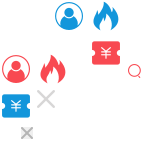
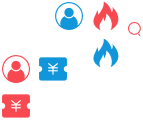
fix img path bug

diff --git a/dist/css/index.css b/dist/css/index.css
@@ -1,1 +1,1 @@
-@charset "UTF-8";.app-header-wrap{min-width:1100px;height:60px;background:#fff;border-bottom:1px solid #e8e8e8;-webkit-box-shadow:0 2px 20px #e8e8e8;box-shadow:0 2px 20px #e8e8e8}.app-header{width:1100px;margin:0 auto}.header-logo,.header-nav{margin-top:10px}.header-logo{display:block;width:100px;height:40px;line-height:40px;background-color:#ffebeb;text-align:center;margin-right:20px}.header-logo img{height:80%}.header-nav li{float:left;line-height:40px;margin:0 20px;font-size:16px}.header-login a,.header-login span,.header-unlogin a{float:left;font-size:14px;line-height:30px}.header-nav li a{display:block}.header-nav li.active a,.header-nav li:hover a{color:red}.header-login,.header-unlogin{display:block;margin-top:15px}.header-login a,.header-unlogin a{display:block;width:60px;text-align:center;-webkit-border-radius:4px;border-radius:4px;height:30px;margin-left:10px;border:1px solid red;-webkit-transition:all .3s;-o-transition:all .3s;transition:all .3s}.header-login a:hover,.header-unlogin a:hover{color:#fff;background:red}.header-login{display:none}.app-footer-wrap{min-width:1100px;background:#f5f5f5;padding:30px 0}.app-footer{width:1100px;margin:0 auto;text-align:center;color:#999}.icon-arrow-left,.icon-arrow-right,.icon-close{width:16px;height:16px;background-image:url(../images/icons.png)}.icon-arrow-left{background-position:-127px -84px}.icon-arrow-right{background-position:-81px -90px}.icon-close{background-position:-127px -105px}.icon-close_03{background-image:url(../images/icons.png);background-position:-21px -127px;width:12px;height:12px}.icon-close_pop{background-image:url(../images/icons.png);background-position:-37px -90px;width:18px;height:18px}.icon-history{background-image:url(../images/icons.png);background-position:-102px -90px;width:16px;height:16px}.icon-hot,.icon-hot:hover{background-image:url(../images/icons.png);width:32px;height:32px}.icon-hot:hover{background-position:-37px -53px}.icon-hot{background-position:-90px 0}.icon-minimum,.icon-narrow{width:16px;height:16px;background-image:url(../images/icons.png)}.icon-minimum{background-position:-60px -90px}.icon-narrow{background-position:0 -127px}.icon-play{background-image:url(../images/icons.png);background-position:0 0;width:48px;height:48px}.icon-plus,.icon-refresh,.icon-scale,.icon-search{background-image:url(../images/icons.png);width:16px;height:16px}.icon-plus{background-position:-127px 0}.icon-refresh{background-position:-127px -21px}.icon-scale{background-position:-127px -42px}.icon-search{background-position:-127px -63px}.icon-ticket,.icon-ticket:hover,.icon-user,.icon-user:hover{background-image:url(../images/icons.png);width:32px;height:32px}.icon-ticket:hover{background-position:-90px -37px}.icon-ticket{background-position:0 -90px}.icon-user:hover{background-position:0 -53px}.icon-user{background-position:-53px 0}.main-content{width:1100px;margin:20px auto;height:800px}.main-content h3{margin-top:30px;font-size:16px;font-weight:700}.test-btns{font-size:0}.test-btns span{display:inline-block;height:30px;line-height:30px;margin:10px 10px 10px 0;padding:0 20px;font-size:14px;cursor:pointer;background:#f66;color:#fff}.test-btns span:hover{background:red}#test{color:red;padding:10px;margin:20px 0;border:1px solid #e8e8e8}
+@charset "UTF-8";.app-header-wrap{min-width:1100px;height:60px;background:#fff;border-bottom:1px solid #e8e8e8;-webkit-box-shadow:0 2px 20px #e8e8e8;box-shadow:0 2px 20px #e8e8e8}.app-header{width:1100px;margin:0 auto}.header-logo,.header-nav{margin-top:10px}.header-logo{display:block;width:100px;height:40px;line-height:40px;background-color:#ffebeb;text-align:center;margin-right:20px}.header-logo img{height:80%}.header-nav li{float:left;line-height:40px;margin:0 20px;font-size:16px}.header-login a,.header-login span,.header-unlogin a{float:left;font-size:14px;line-height:30px}.header-nav li a{display:block}.header-nav li.active a,.header-nav li:hover a{color:red}.header-login,.header-unlogin{display:block;margin-top:15px}.header-login a,.header-unlogin a{display:block;width:60px;text-align:center;-webkit-border-radius:4px;border-radius:4px;height:30px;margin-left:10px;border:1px solid red;-webkit-transition:all .3s;-o-transition:all .3s;transition:all .3s}.header-login a:hover,.header-unlogin a:hover{color:#fff;background:red}.header-login{display:none}.app-footer-wrap{min-width:1100px;background:#f5f5f5;padding:30px 0}.app-footer{width:1100px;margin:0 auto;text-align:center;color:#999}.icon-arrow-left,.icon-arrow-right,.icon-close,.icon-history{background-image:url(../images/icons.png);width:16px;height:16px}.icon-arrow-left{background-position:-127px -105px}.icon-arrow-right{background-position:-58px -90px}.icon-close{background-position:-127px -84px}.icon-history{background-position:-127px -63px}.icon-hot,.icon-hot:hover{background-image:url(../images/icons.png);width:32px;height:32px}.icon-hot:hover{background-position:-90px 0}.icon-hot{background-position:-90px -37px}.icon-minimum,.icon-narrow{width:16px;height:16px;background-image:url(../images/icons.png)}.icon-minimum{background-position:-127px -42px}.icon-narrow{background-position:-37px -90px}.icon-play{background-image:url(../images/icons.png);background-position:0 0;width:48px;height:48px}.icon-plus,.icon-refresh,.icon-scale,.icon-search{background-image:url(../images/icons.png);width:16px;height:16px}.icon-plus{background-position:-79px -90px}.icon-refresh{background-position:-100px -90px}.icon-scale{background-position:-127px 0}.icon-search{background-position:-127px -21px}.icon-ticket,.icon-ticket:hover,.icon-user,.icon-user:hover{background-image:url(../images/icons.png);width:32px;height:32px}.icon-ticket:hover{background-position:0 -90px}.icon-ticket{background-position:-37px -53px}.icon-user:hover{background-position:0 -53px}.icon-user{background-position:-53px 0}.main-content{width:1100px;margin:20px auto;height:800px}.main-content h3{margin-top:30px;font-size:16px;font-weight:700}.test-btns{font-size:0}.test-btns span{display:inline-block;height:30px;line-height:30px;margin:10px 10px 10px 0;padding:0 20px;font-size:14px;cursor:pointer;background:#f66;color:#fff}.test-btns span:hover{background:red}#test{color:red;padding:10px;margin:20px 0;border:1px solid #e8e8e8}

diff --git a/dist/index.html b/dist/index.html
@@ -1,1 +1,1 @@
-<!DOCTYPE html><html lang="en"><head><meta charset="UTF-8"><meta http-equiv="Content-Type" content="text/html; charset=utf-8"><meta http-equiv="X-UA-Compatible" content="IE=Edge,chrome=1"><meta name="viewport" content="width=device-width,user-scalable=no,initial-scale=1,maximum-scale=1,minimum-scale=1"><title>首页</title><link rel="stylesheet" href="css/reset.css?v=4e66b5be6f"><link rel="stylesheet" href="css/index.css?v=a4a09ddef4"></head><body><div class="app-header-wrap"><div class="app-header clearfix"><div class="header-navs fl"><ul class="header-nav"><li class="active"><a href="index.html">首页</a></li><li><a href="">项目一</a></li><li><a href="">项目二</a></li><li><a href="">项目三</a></li></ul></div><div class="header-menu fr"><div class="header-login"><span>欢迎你，admin</span> <a href="" class="btn-logout">退出</a></div><div class="header-unlogin"><a href="" class="btn-login">登录</a> <a href="" class="btn-register">注册</a></div></div></div></div><div class="main-content"><h4>内容测试</h4><div id="test"></div><a href="detail.html">前往详情页</a><h3>雪碧图测试</h3><i class="icon icon-hot"></i> <i class="icon icon-user"></i> <i class="icon icon-ticket"></i><h3>登录测试</h3><div class="test-btns"><span class="login-alert">点我alert(1)需要登录</span> <span class="login-link">点我跳到百度需要登录</span></div><h3>弹窗测试</h3><div class="test-btns"><span class="popup-one">一个按钮</span> <span class="popup-two">两个按钮点击事件</span> <span class="popup-three">点击背景不关闭</span></div><h3>提示测试</h3><div class="test-btns"><span class="toast-one">默认</span> <span class="toast-two">定义样式时间</span></div></div><div class="app-footer-wrap"><div class="app-footer"><p class="footer-copyright">底部</p></div></div><script data-main="js/index.js?v=10945dd199" src="js/require.js"></script></body></html>
+<!DOCTYPE html><html lang="en"><head><meta charset="UTF-8"><meta http-equiv="Content-Type" content="text/html; charset=utf-8"><meta http-equiv="X-UA-Compatible" content="IE=Edge,chrome=1"><meta name="viewport" content="width=device-width,user-scalable=no,initial-scale=1,maximum-scale=1,minimum-scale=1"><title>首页</title><link rel="stylesheet" href="css/reset.css?v=4e66b5be6f"><link rel="stylesheet" href="css/index.css?v=e1064ab127"></head><body><div class="app-header-wrap"><div class="app-header clearfix"><div class="header-navs fl"><ul class="header-nav"><li class="active"><a href="index.html">首页</a></li><li><a href="">项目一</a></li><li><a href="">项目二</a></li><li><a href="">项目三</a></li></ul></div><div class="header-menu fr"><div class="header-login"><span>欢迎你，admin</span> <a href="" class="btn-logout">退出</a></div><div class="header-unlogin"><a href="" class="btn-login">登录</a> <a href="" class="btn-register">注册</a></div></div></div></div><div class="main-content"><h4>内容测试</h4><div id="test"></div><a href="detail.html">前往详情页</a><h3>雪碧图测试</h3><i class="icon icon-hot"></i> <i class="icon icon-user"></i> <i class="icon icon-ticket"></i><h3>登录测试</h3><div class="test-btns"><span class="login-alert">点我alert(1)需要登录</span> <span class="login-link">点我跳到百度需要登录</span></div><h3>弹窗测试</h3><div class="test-btns"><span class="popup-one">一个按钮</span> <span class="popup-two">两个按钮点击事件</span> <span class="popup-three">点击背景不关闭</span></div><h3>提示测试</h3><div class="test-btns"><span class="toast-one">默认</span> <span class="toast-two">定义样式时间</span></div></div><div class="app-footer-wrap"><div class="app-footer"><p class="footer-copyright">底部</p></div></div><script data-main="js/index.js?v=10945dd199" src="js/require.js"></script></body></html>

diff --git a/src/css/index.css b/src/css/index.css
@@ -130,61 +130,49 @@ To change `display` (e.g. `display: inline-block;`), we suggest using a common C
 */
 .icon-arrow-left {
   background-image: url(../images/icons.png);
-  background-position: -127px -84px;
+  background-position: -127px -105px;
   width: 16px;
   height: 16px; }
 
 .icon-arrow-right {
   background-image: url(../images/icons.png);
-  background-position: -81px -90px;
+  background-position: -58px -90px;
   width: 16px;
   height: 16px; }
 
 .icon-close {
   background-image: url(../images/icons.png);
-  background-position: -127px -105px;
+  background-position: -127px -84px;
   width: 16px;
   height: 16px; }
 
-.icon-close_03 {
-  background-image: url(../images/icons.png);
-  background-position: -21px -127px;
-  width: 12px;
-  height: 12px; }
-
-.icon-close_pop {
-  background-image: url(../images/icons.png);
-  background-position: -37px -90px;
-  width: 18px;
-  height: 18px; }
-
 .icon-history {
   background-image: url(../images/icons.png);
-  background-position: -102px -90px;
+  background-position: -127px -63px;
   width: 16px;
   height: 16px; }
 
 .icon-hot:hover {
   background-image: url(../images/icons.png);
-  background-position: -37px -53px;
+  background-position: -90px 0px;
   width: 32px;
   height: 32px; }
 
 .icon-hot {
   background-image: url(../images/icons.png);
-  background-position: -90px 0px;
+  background-position: -90px -37px;
   width: 32px;
   height: 32px; }
 
 .icon-minimum {
   background-image: url(../images/icons.png);
-  background-position: -60px -90px;
+  background-position: -127px -42px;
   width: 16px;
   height: 16px; }
 
 .icon-narrow {
   background-image: url(../images/icons.png);
-  background-position: 0px -127px;
+  background-position: -37px -90px;
   width: 16px;
   height: 16px; }
 
@@ -196,37 +184,37 @@ To change `display` (e.g. `display: inline-block;`), we suggest using a common C
 
 .icon-plus {
   background-image: url(../images/icons.png);
-  background-position: -127px 0px;
+  background-position: -79px -90px;
   width: 16px;
   height: 16px; }
 
 .icon-refresh {
   background-image: url(../images/icons.png);
-  background-position: -127px -21px;
+  background-position: -100px -90px;
   width: 16px;
   height: 16px; }
 
 .icon-scale {
   background-image: url(../images/icons.png);
-  background-position: -127px -42px;
+  background-position: -127px 0px;
   width: 16px;
   height: 16px; }
 
 .icon-search {
   background-image: url(../images/icons.png);
-  background-position: -127px -63px;
+  background-position: -127px -21px;
   width: 16px;
   height: 16px; }
 
 .icon-ticket:hover {
   background-image: url(../images/icons.png);
-  background-position: -90px -37px;
+  background-position: 0px -90px;
   width: 32px;
   height: 32px; }
 
 .icon-ticket {
   background-image: url(../images/icons.png);
-  background-position: 0px -90px;
+  background-position: -37px -53px;
   width: 32px;
   height: 32px; }
 

diff --git a/src/scss/common/_sprite.scss b/src/scss/common/_sprite.scss
@@ -18,61 +18,49 @@ To change `display` (e.g. `display: inline-block;`), we suggest using a common C
 */
 .icon-arrow-left {
   background-image: url(../images/icons.png);
-  background-position: -127px -84px;
+  background-position: -127px -105px;
   width: 16px;
   height: 16px;
 }
 .icon-arrow-right {
   background-image: url(../images/icons.png);
-  background-position: -81px -90px;
+  background-position: -58px -90px;
   width: 16px;
   height: 16px;
 }
 .icon-close {
   background-image: url(../images/icons.png);
-  background-position: -127px -105px;
+  background-position: -127px -84px;
   width: 16px;
   height: 16px;
 }
-.icon-close_03 {
-  background-image: url(../images/icons.png);
-  background-position: -21px -127px;
-  width: 12px;
-  height: 12px;
-}
-.icon-close_pop {
-  background-image: url(../images/icons.png);
-  background-position: -37px -90px;
-  width: 18px;
-  height: 18px;
-}
 .icon-history {
   background-image: url(../images/icons.png);
-  background-position: -102px -90px;
+  background-position: -127px -63px;
   width: 16px;
   height: 16px;
 }
 .icon-hot:hover {
   background-image: url(../images/icons.png);
-  background-position: -37px -53px;
+  background-position: -90px 0px;
   width: 32px;
   height: 32px;
 }
 .icon-hot {
   background-image: url(../images/icons.png);
-  background-position: -90px 0px;
+  background-position: -90px -37px;
   width: 32px;
   height: 32px;
 }
 .icon-minimum {
   background-image: url(../images/icons.png);
-  background-position: -60px -90px;
+  background-position: -127px -42px;
   width: 16px;
   height: 16px;
 }
 .icon-narrow {
   background-image: url(../images/icons.png);
-  background-position: 0px -127px;
+  background-position: -37px -90px;
   width: 16px;
   height: 16px;
 }
@@ -84,37 +72,37 @@ To change `display` (e.g. `display: inline-block;`), we suggest using a common C
 }
 .icon-plus {
   background-image: url(../images/icons.png);
-  background-position: -127px 0px;
+  background-position: -79px -90px;
   width: 16px;
   height: 16px;
 }
 .icon-refresh {
   background-image: url(../images/icons.png);
-  background-position: -127px -21px;
+  background-position: -100px -90px;
   width: 16px;
   height: 16px;
 }
 .icon-scale {
   background-image: url(../images/icons.png);
-  background-position: -127px -42px;
+  background-position: -127px 0px;
   width: 16px;
   height: 16px;
 }
 .icon-search {
   background-image: url(../images/icons.png);
-  background-position: -127px -63px;
+  background-position: -127px -21px;
   width: 16px;
   height: 16px;
 }
 .icon-ticket:hover {
   background-image: url(../images/icons.png);
-  background-position: -90px -37px;
+  background-position: 0px -90px;
   width: 32px;
   height: 32px;
 }
 .icon-ticket {
   background-image: url(../images/icons.png);
-  background-position: 0px -90px;
+  background-position: -37px -53px;
   width: 32px;
   height: 32px;
 }

diff --git a/gulpfile.js b/gulpfile.js
@@ -24,7 +24,7 @@ var __path = '/';
 
 // 上线静态资源路径
 var abspath = '';
-// var abspath = '//www.xxx.com';
+// var abspath = '//www.xxx.com/';
 
  //将类style-b47bb72002.css修改为style.css?v=b47bb72002
 function fixHash() {
@@ -163,7 +163,7 @@ gulp.task('img', function() {
         }))
 		.pipe(gulp.dest('src/'+__path+'images'))
 
-	return gulp.src(['src/'+__path+'images/**', '!src/'+__path+'images/icons'])
+	return gulp.src(['src/'+__path+'images/**', '!src/'+__path+'images/icons/*', '!src/'+__path+'images/icons'])
 		.pipe(cache(imagemin({ optimizationLevel: 3, progressive: true, interlaced: true })))
 		.pipe(gulp.dest('dist/'+__path+'images'))
 });
